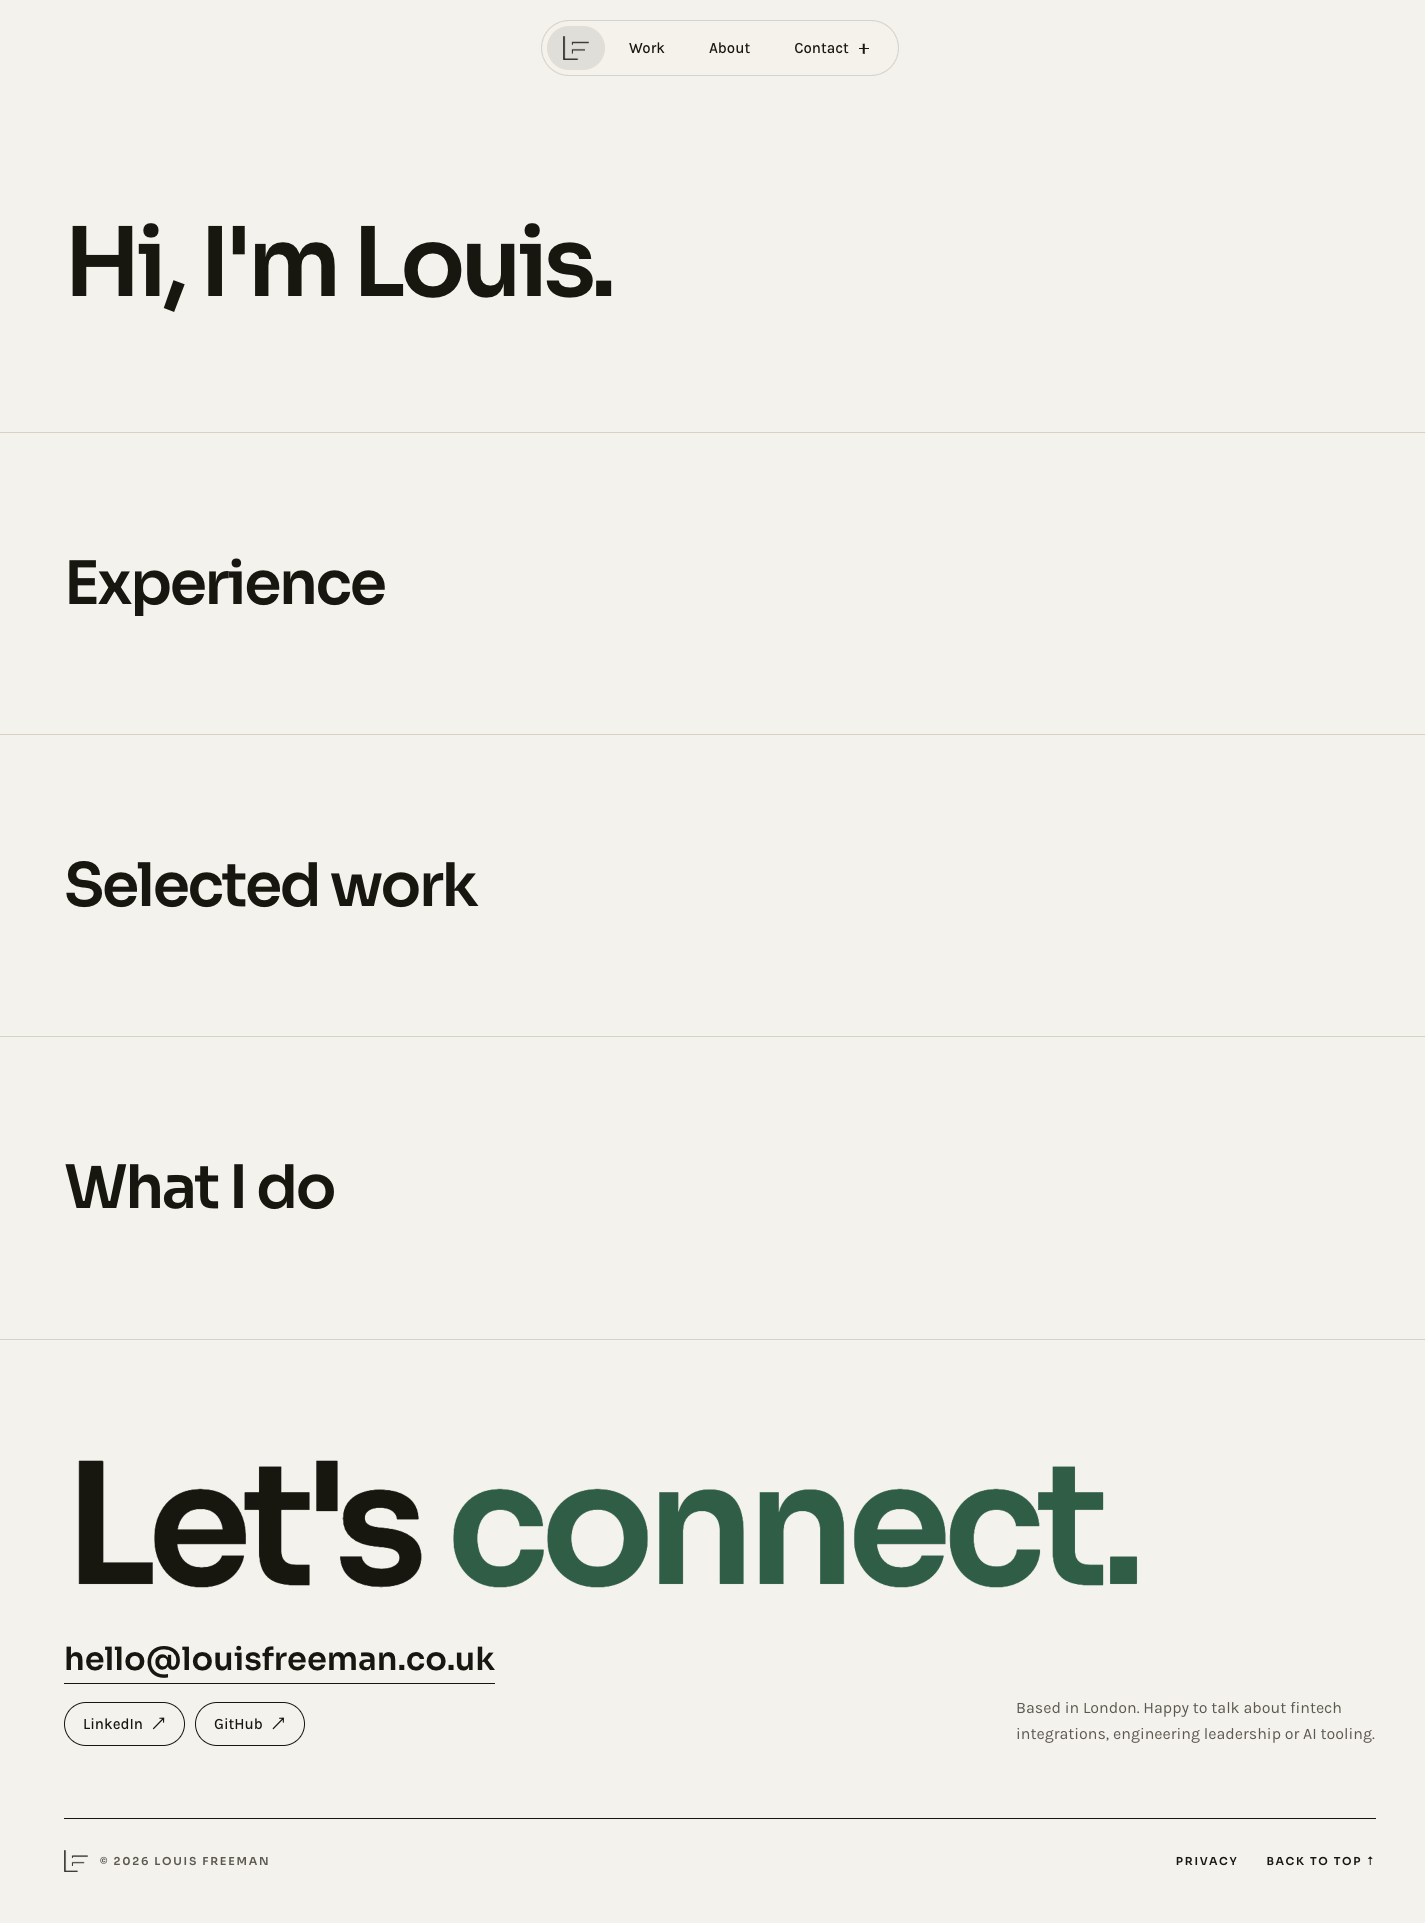
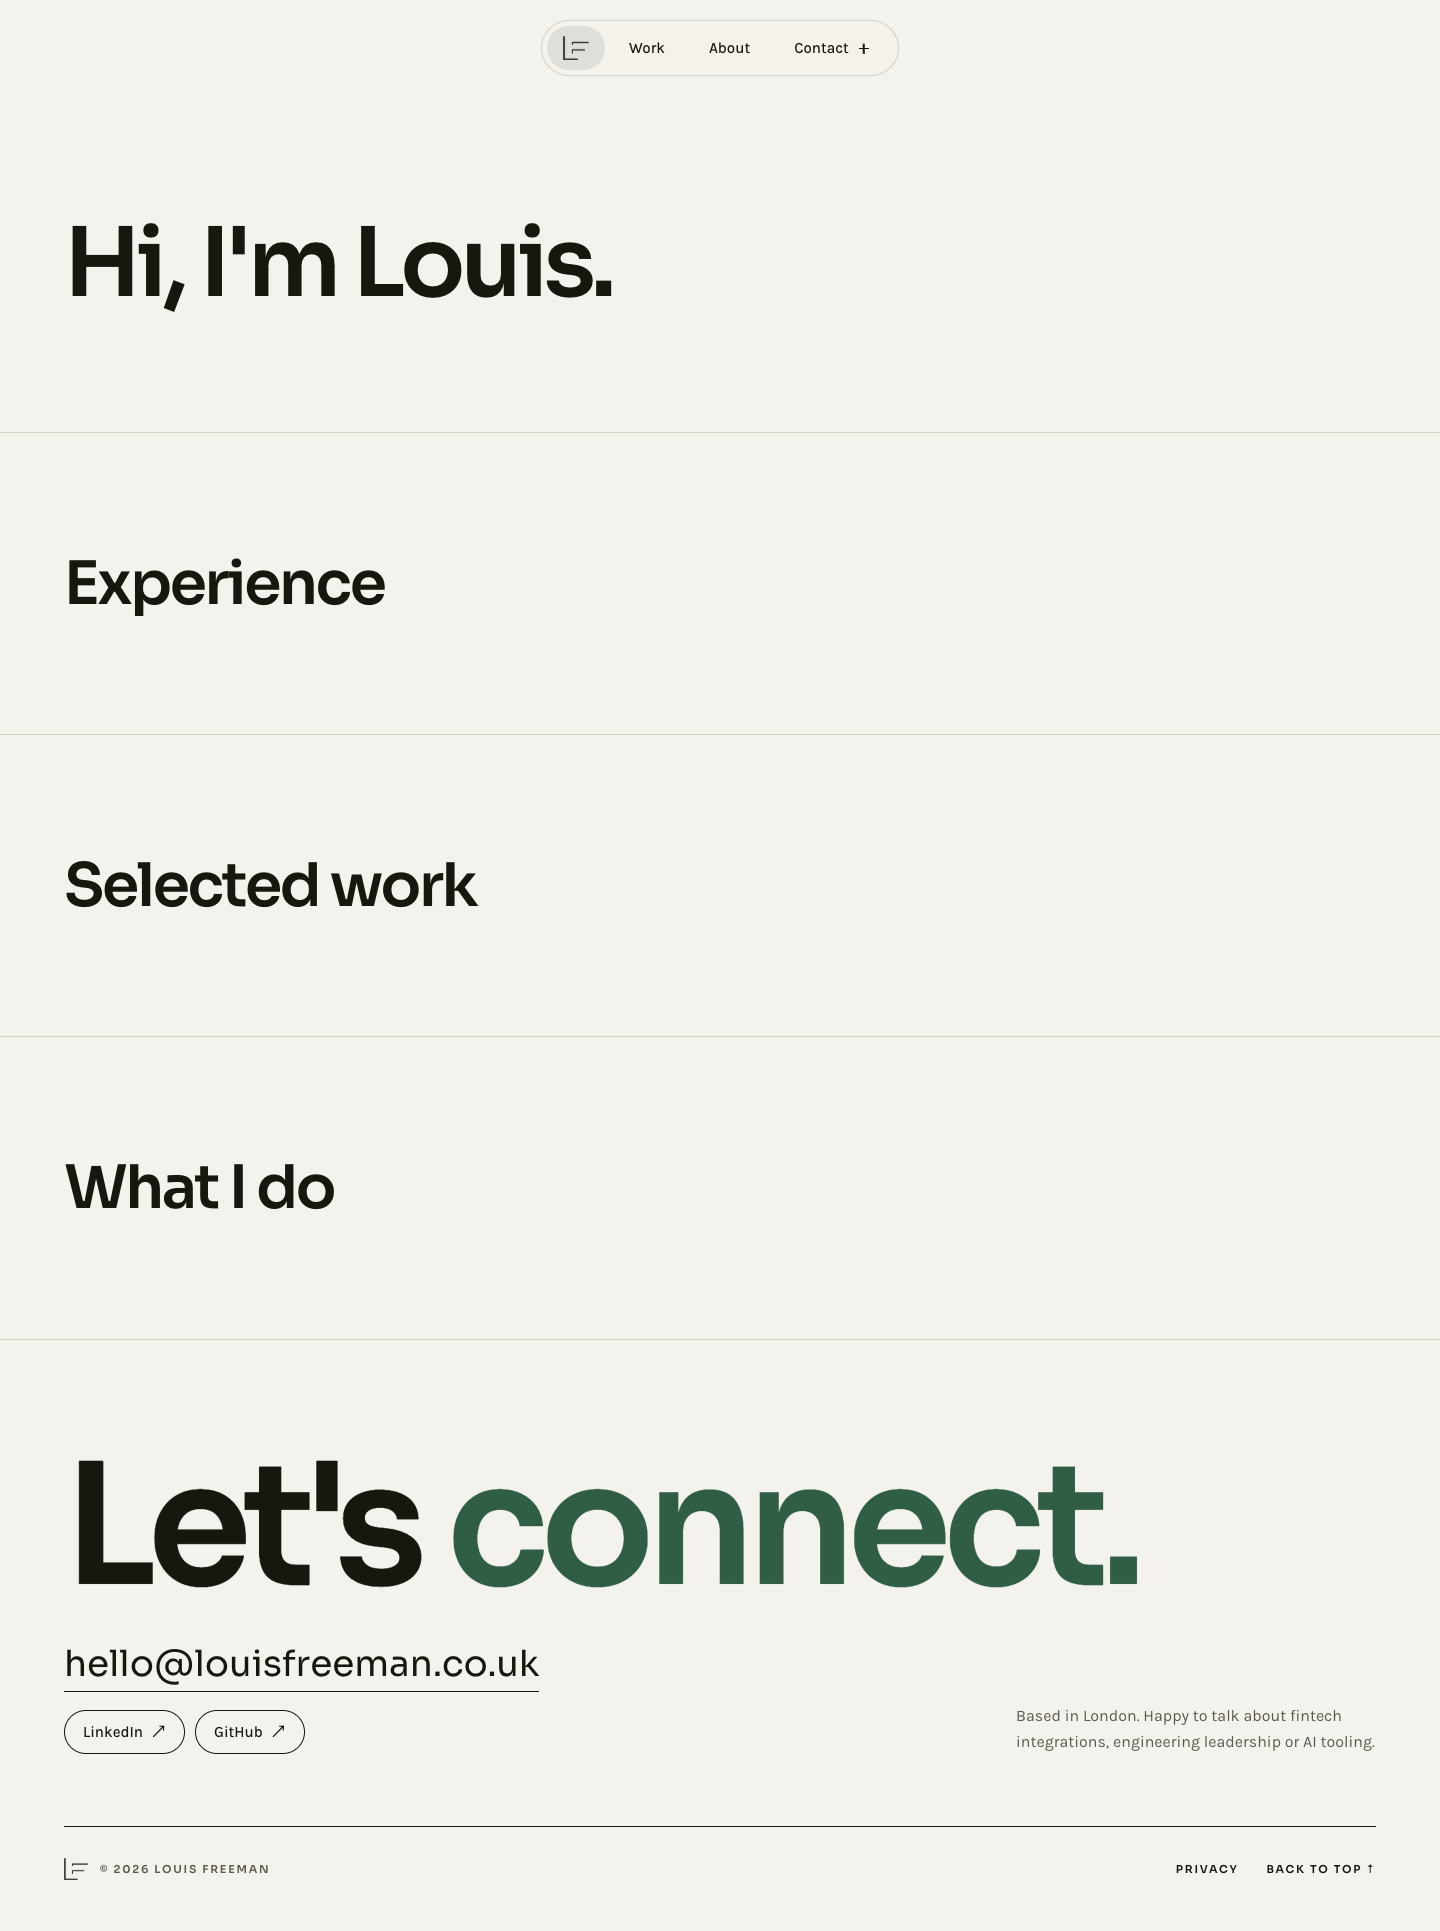
BT-5: Address QA findings on the app shell
Keep the slide-out contact links' focus ring clear of the overflow clip,
set the footer email to the mockup's regular 36px, open new-tab links
through a shared ExternalLink, show only the UI message when a page fails
for a non-API reason, and narrow the contract naming exemption to the
education and photo booleans.

diff --git a/app/javascript/components/Nav/ContactMenu.tsx b/app/javascript/components/Nav/ContactMenu.tsx
@@ -1,6 +1,7 @@
 import { useCallback, useEffect, useId, useRef, useState } from "react";
 import { useLocation } from "react-router";
 
+import ExternalLink from "~/components/ExternalLink/ExternalLink";
 import styles from "~/components/Nav/Nav.module.css";
 import useMediaQuery, { COMPACT_MEDIA_QUERY } from "~/hooks/useMediaQuery";
 import classNames from "~/lib/classNames";
@@ -12,9 +13,6 @@ interface ContactMenuProps {
 }
 
 type ContactVariant = "dropdown" | "slide-out";
-
-const EXTERNAL_LINK_REL = "noopener noreferrer";
-const EXTERNAL_LINK_TARGET = "_blank";
 
 const LINKS_CLASS_BY_VARIANT: Record<ContactVariant, string | undefined> = {
   dropdown: styles.dropdown,
@@ -91,26 +89,14 @@ function ContactMenu({ profile }: ContactMenuProps) {
             →
           </span>
         </a>
-        <a
-          className={styles.contactLink}
-          href={profile.linkedin_url}
-          rel={EXTERNAL_LINK_REL}
-          target={EXTERNAL_LINK_TARGET}
-        >
+        <ExternalLink className={styles.contactLink} href={profile.linkedin_url}>
           {t("contact_linkedin")}
           <span aria-hidden="true">↗</span>
-          <span className="visually-hidden">{t("opens_in_new_tab")}</span>
-        </a>
-        <a
-          className={styles.contactLink}
-          href={profile.github_url}
-          rel={EXTERNAL_LINK_REL}
-          target={EXTERNAL_LINK_TARGET}
-        >
+        </ExternalLink>
+        <ExternalLink className={styles.contactLink} href={profile.github_url}>
           {t("contact_github")}
           <span aria-hidden="true">↗</span>
-          <span className="visually-hidden">{t("opens_in_new_tab")}</span>
-        </a>
+        </ExternalLink>
       </span>
     </span>
   );

diff --git a/app/javascript/components/Footer/Footer.tsx b/app/javascript/components/Footer/Footer.tsx
@@ -1,6 +1,7 @@
 import { useLocation } from "react-router";
 
 import logoMark from "~/assets/logo-mark.png";
+import ExternalLink from "~/components/ExternalLink/ExternalLink";
 import styles from "~/components/Footer/Footer.module.css";
 import PrivacyNote from "~/components/Footer/PrivacyNote";
 import useMediaQuery, { COMPACT_MEDIA_QUERY } from "~/hooks/useMediaQuery";
@@ -35,26 +36,14 @@ function Footer({ profile }: FooterProps) {
                 {profile.email}
               </a>
               <div className={styles.pills}>
-                <a
-                  className={styles.pill}
-                  href={profile.linkedin_url}
-                  rel="noopener noreferrer"
-                  target="_blank"
-                >
+                <ExternalLink className={styles.pill} href={profile.linkedin_url}>
                   {t("contact_linkedin")}
                   <span aria-hidden="true">↗</span>
-                  <span className="visually-hidden">{t("opens_in_new_tab")}</span>
-                </a>
-                <a
-                  className={styles.pill}
-                  href={profile.github_url}
-                  rel="noopener noreferrer"
-                  target="_blank"
-                >
+                </ExternalLink>
+                <ExternalLink className={styles.pill} href={profile.github_url}>
                   {t("contact_github")}
                   <span aria-hidden="true">↗</span>
-                  <span className="visually-hidden">{t("opens_in_new_tab")}</span>
-                </a>
+                </ExternalLink>
               </div>
             </div>
             <p className={styles.blurb}>{profile.footer_blurb}</p>

diff --git a/app/javascript/components/PageQueryState/PageQueryState.test.tsx b/app/javascript/components/PageQueryState/PageQueryState.test.tsx
@@ -1,0 +1,45 @@
+import { useQuery } from "@tanstack/react-query";
+import { screen } from "@testing-library/react";
+import { describe, expect, it } from "vitest";
+
+import { renderWithProviders } from "@test/utils";
+import PageQueryState from "~/components/PageQueryState/PageQueryState";
+import { ApiError } from "~/lib/apiClient";
+
+interface FailingPageProps {
+  error: Error;
+}
+
+const UI = { page_load_error: "Couldn't load this page.", retry: "Retry" };
+
+function FailingPage({ error }: FailingPageProps) {
+  const query = useQuery<string>({
+    queryFn: () => Promise.reject(error),
+    queryKey: ["failing", error.message],
+  });
+
+  return <PageQueryState query={query}>{(data) => <p>{data}</p>}</PageQueryState>;
+}
+
+describe("PageQueryState", () => {
+  it("names the API's specific problem", async () => {
+    renderWithProviders(
+      <FailingPage error={new ApiError("Work header has not been seeded", 404)} />,
+      { ui: UI },
+    );
+
+    expect(await screen.findByRole("alert")).toHaveTextContent("Work header has not been seeded");
+  });
+
+  it("shows only the UI message on a network failure", async () => {
+    renderWithProviders(<FailingPage error={new TypeError("Failed to fetch")} />, { ui: UI });
+
+    expect(await screen.findByRole("alert")).not.toHaveTextContent("Failed to fetch");
+  });
+
+  it("still offers Retry on a network failure", async () => {
+    renderWithProviders(<FailingPage error={new TypeError("Failed to fetch")} />, { ui: UI });
+
+    expect(await screen.findByRole("button", { name: "Retry" })).toBeInTheDocument();
+  });
+});

diff --git a/app/javascript/components/ExternalLink/ExternalLink.test.tsx b/app/javascript/components/ExternalLink/ExternalLink.test.tsx
@@ -1,0 +1,39 @@
+import { screen } from "@testing-library/react";
+import { describe, expect, it } from "vitest";
+
+import { renderWithProviders } from "@test/utils";
+import ExternalLink from "~/components/ExternalLink/ExternalLink";
+
+const UI = { opens_in_new_tab: "(opens in a new tab)" };
+
+function renderLink() {
+  return renderWithProviders(
+    <ExternalLink href="https://github.com/Louisf77">GitHub</ExternalLink>,
+    {
+      ui: UI,
+    },
+  );
+}
+
+describe("ExternalLink", () => {
+  it("opens in a new tab", () => {
+    renderLink();
+
+    expect(screen.getByRole("link", { name: /GitHub/ })).toHaveAttribute("target", "_blank");
+  });
+
+  it("gives the new page no opener or referrer", () => {
+    renderLink();
+
+    expect(screen.getByRole("link", { name: /GitHub/ })).toHaveAttribute(
+      "rel",
+      "noopener noreferrer",
+    );
+  });
+
+  it("tells screen reader users it opens a new tab", () => {
+    renderLink();
+
+    expect(screen.getByRole("link", { name: "GitHub (opens in a new tab)" })).toBeInTheDocument();
+  });
+});

diff --git a/app/javascript/components/Footer/PrivacyNote.tsx b/app/javascript/components/Footer/PrivacyNote.tsx
@@ -1,6 +1,7 @@
 import { useId, useRef } from "react";
 
 import Button from "~/components/Button/Button";
+import ExternalLink from "~/components/ExternalLink/ExternalLink";
 import styles from "~/components/Footer/Footer.module.css";
 import { useUi } from "~/lib/ui";
 
@@ -27,16 +28,10 @@ function PrivacyNote() {
           {t("privacy_title")}
         </h2>
         <p className={styles.privacyBody}>{t("privacy_body")}</p>
-        <a
-          className={styles.privacyPolicyLink}
-          href={UMAMI_PRIVACY_POLICY_URL}
-          rel="noopener noreferrer"
-          target="_blank"
-        >
+        <ExternalLink className={styles.privacyPolicyLink} href={UMAMI_PRIVACY_POLICY_URL}>
           {t("privacy_policy_link")}
           <span aria-hidden="true"> ↗</span>
-          <span className="visually-hidden">{t("opens_in_new_tab")}</span>
-        </a>
+        </ExternalLink>
         <Button
           className={styles.privacyClose}
           onClick={() => {

diff --git a/app/javascript/components/Button/Button.tsx b/app/javascript/components/Button/Button.tsx
@@ -2,6 +2,7 @@ import type { ReactNode } from "react";
 import { Link } from "react-router";
 
 import styles from "~/components/Button/Button.module.css";
+import ExternalLink from "~/components/ExternalLink/ExternalLink";
 import classNames from "~/lib/classNames";
 
 type ButtonSize = "regular" | "small";
@@ -69,15 +70,17 @@ function Button({
     );
   }
 
+  if (href !== undefined && isExternal) {
+    return (
+      <ExternalLink className={buttonClassName} href={href} onClick={onClick}>
+        {content}
+      </ExternalLink>
+    );
+  }
+
   if (href !== undefined) {
     return (
-      <a
-        className={buttonClassName}
-        href={href}
-        onClick={onClick}
-        rel={isExternal ? "noopener noreferrer" : undefined}
-        target={isExternal ? "_blank" : undefined}
-      >
+      <a className={buttonClassName} href={href} onClick={onClick}>
         {content}
       </a>
     );

diff --git a/app/javascript/components/PageQueryState/PageQueryState.tsx b/app/javascript/components/PageQueryState/PageQueryState.tsx
@@ -3,6 +3,7 @@ import type { ReactNode } from "react";
 
 import styles from "~/components/PageQueryState/PageQueryState.module.css";
 import SectionLoadError from "~/components/SectionLoadError/SectionLoadError";
+import { ApiError } from "~/lib/apiClient";
 
 interface PageQueryStateProps<T> {
   children: (data: T) => ReactNode;
@@ -13,7 +14,7 @@ function PageQueryState<T>({ children, query }: PageQueryStateProps<T>) {
   if (query.isError) {
     return (
       <SectionLoadError
-        detail={query.error.message}
+        detail={query.error instanceof ApiError ? query.error.message : undefined}
         isRetrying={query.isFetching}
         onRetry={() => {
           query.refetch().catch(() => undefined);

diff --git a/app/javascript/components/ExternalLink/ExternalLink.tsx b/app/javascript/components/ExternalLink/ExternalLink.tsx
@@ -1,0 +1,31 @@
+import type { ReactNode } from "react";
+
+import { useUi } from "~/lib/ui";
+
+interface ExternalLinkProps {
+  children: ReactNode;
+  className?: string;
+  href: string;
+  onClick?: () => void;
+}
+
+const NEW_TAB_TARGET = "_blank";
+const NEW_TAB_REL = "noopener noreferrer";
+
+function ExternalLink({ children, className, href, onClick }: ExternalLinkProps) {
+  const t = useUi();
+
+  return (
+    <a
+      className={className}
+      href={href}
+      onClick={onClick}
+      rel={NEW_TAB_REL}
+      target={NEW_TAB_TARGET}
+    >
+      {children} <span className="visually-hidden">{t("opens_in_new_tab")}</span>
+    </a>
+  );
+}
+
+export default ExternalLink;

diff --git a/eslint.config.js b/eslint.config.js
@@ -61,7 +61,16 @@ export default tseslint.config(
   {
     files: ["app/javascript/types/contracts.ts"],
     rules: {
-      "@typescript-eslint/naming-convention": "off",
+      "@typescript-eslint/naming-convention": [
+        "error",
+        {
+          filter: { match: false, regex: "^(education|photo)$" },
+          format: ["PascalCase"],
+          prefix: ["is"],
+          selector: ["parameter", "typeProperty", "variable"],
+          types: ["boolean"],
+        },
+      ],
     },
   },
   {

diff --git a/app/javascript/components/Nav/Nav.module.css b/app/javascript/components/Nav/Nav.module.css
@@ -111,6 +111,8 @@
   align-items: center;
   gap: var(--space-2);
   max-width: 0;
+  margin: calc(-1 * var(--focus-ring-room));
+  padding: var(--focus-ring-room);
   overflow: hidden;
   opacity: 0;
   visibility: hidden;
@@ -121,7 +123,7 @@
 }
 
 .slideOut.open {
-  max-width: 380px;
+  max-width: calc(380px + 2 * var(--focus-ring-room));
   opacity: 1;
   visibility: visible;
 }

diff --git a/app/javascript/components/Footer/Footer.module.css b/app/javascript/components/Footer/Footer.module.css
@@ -47,7 +47,7 @@
   padding-bottom: 6px;
   border-bottom: 1px solid var(--ink);
   color: var(--ink);
-  font: 600 32px/1.1 var(--font-display);
+  font: 400 36px/1.2 var(--font-display);
   text-decoration: none;
 }
 
@@ -225,8 +225,8 @@
 
   .mail {
     padding-bottom: var(--space-4);
+    font-weight: 600;
     font-size: 20px;
-    line-height: 1.2;
   }
 
   .blurb {

diff --git a/app/javascript/styles/tokens.css b/app/javascript/styles/tokens.css
@@ -81,6 +81,7 @@
 
   --focus-ring: 2px solid var(--green);
   --focus-offset: 4px;
+  --focus-ring-room: 6px;
 
   --ease-enter: cubic-bezier(0.2, 0.7, 0.2, 1);
   --ease-ui: cubic-bezier(0.2, 0.8, 0.2, 1);
